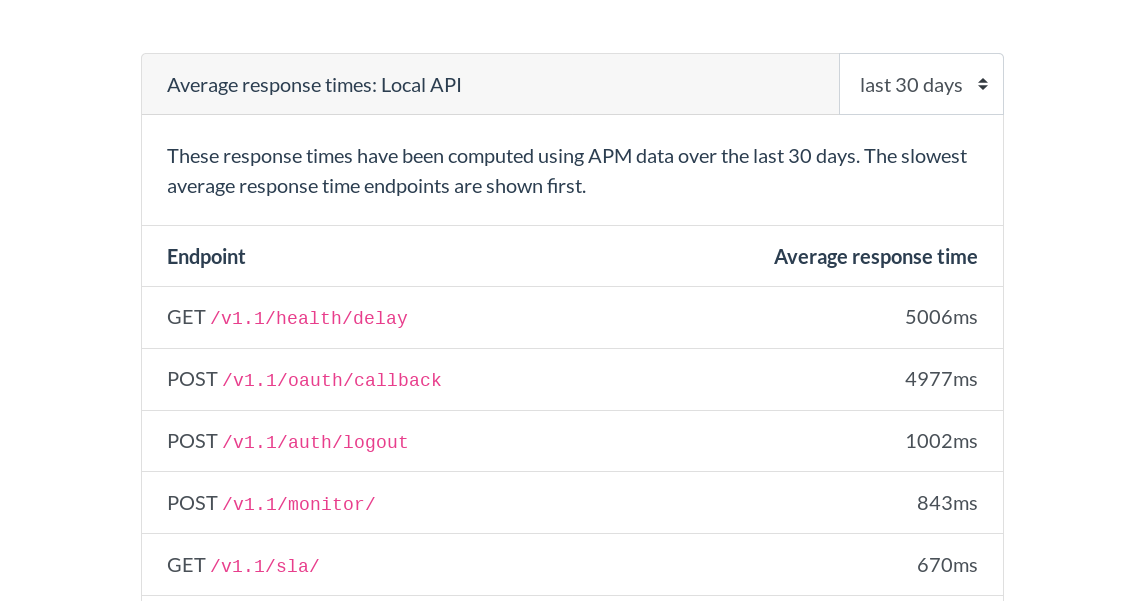
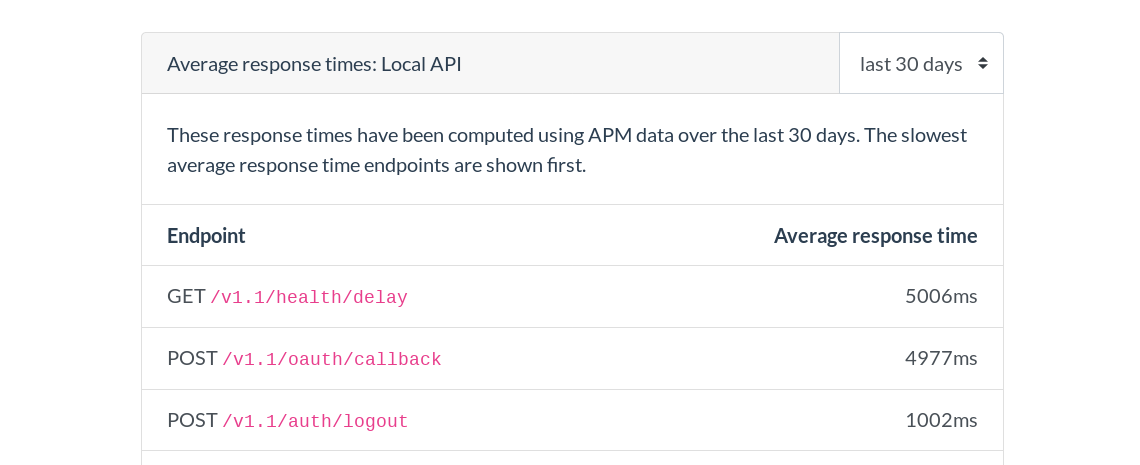
Add screenshot to RST README

diff --git a/README.rst b/README.rst
@@ -1,7 +1,11 @@
 HowFast APM for Python servers
 ==============================
 
-Light instrumentation of your Python server for reporting performance data to HowFast APM.
+Light instrumentation of your Python server for reporting performance data to `HowFast APM <https://www.howfast.tech/>`_.
+
+.. image:: https://github.com/HowFast/apm-python/blob/master/screenshot.png
+    :align: center
+    :alt: Screenshot from HowFast APM
 
 Install
 -------
